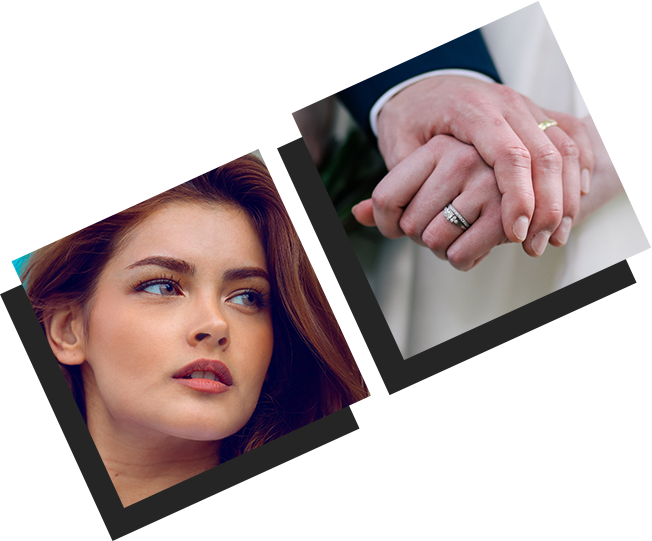
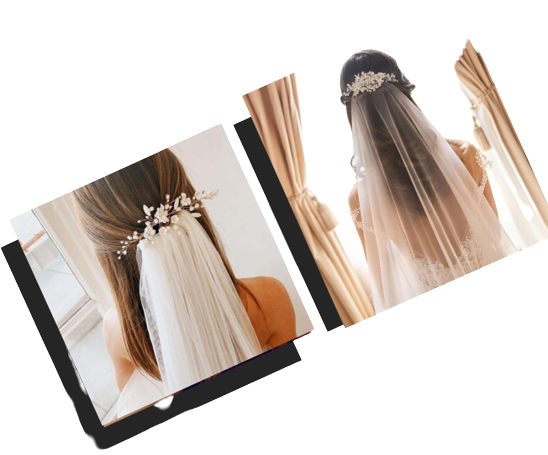
Implemented about-THE BRIDE section

diff --git a/index.html b/index.html
@@ -50,7 +50,7 @@
                         </div>
                      </div>
                   </div>
-                  <div class="col-xl-9 col-lg-9 col-md-9 col-sm-9">
+                  <!-- <div class="col-xl-9 col-lg-9 col-md-9 col-sm-9">
                      <nav class="navigation navbar navbar-expand-md navbar-dark ">
                         <button class="navbar-toggler" type="button" data-toggle="collapse" data-target="#navbarsExample04" aria-controls="navbarsExample04" aria-expanded="false" aria-label="Toggle navigation">
                         <span class="navbar-toggler-icon"></span>
@@ -69,16 +69,16 @@
                               <!-- <li class="nav-item">
                                  <a class="nav-link" href="blog.html">Blog</a>
                               </li> -->
-                              <li class="nav-item">
+                              <!-- <li class="nav-item">
                                  <a class="nav-link" href="contact.html">Contact Us</a>
                               </li>
                            </ul>
-                        </div>
+                        </div> -->
                         <!-- <ul class="search">
                            <li><a href="Javascript:void(0)"><i class="fa fa-search" aria-hidden="true"></i></a></li>
                         </ul> -->
                      </nav>
-                  </div>
+                  </div> -->
                </div>
             </div>
          </div>
@@ -261,8 +261,8 @@
             <div class="row d_flex">
                <div class="col-md-5">
                   <div class="titlepage">
-                     <h2>About Our Company</h2>
-                     <span>Lorem ipsum dolor sit amet, consectetur adipiscing elit, sed do eiusmod tempor incididunt ut labore et dolore magna aliqua. Ut enim ad minim veniam, quis nostrud exercitation ullamco</span>
+                     <h2>About-THE BRIDE</h2>
+                     <span>Find your perfect bridal veil at our boutique. From classic cathedral to trendy birdcage styles, we have something to suit every bride's taste. Our expert team customizes each veil to match your dress and style, while offering unique options like floral crowns and headpieces. Let us help enhance your wedding day look with the perfect finishing touch.</span>
                      <a class="read_more" href="Javascript:void(0)"> Read More</a>
                   </div>
                </div>
@@ -331,7 +331,7 @@
       </div> -->
       <!-- end blog -->
       <!-- says -->
-      <div class="says">
+      <!-- <div class="says">
          <div class="container-fluid">
             <div class="row">
                <div class="col-md-12">
@@ -419,7 +419,7 @@
                </div>
             </div>
          </div>
-      </div>
+      </div> -->
       <!-- end says -->
       <!--  contact -->
       <div class="contact">
